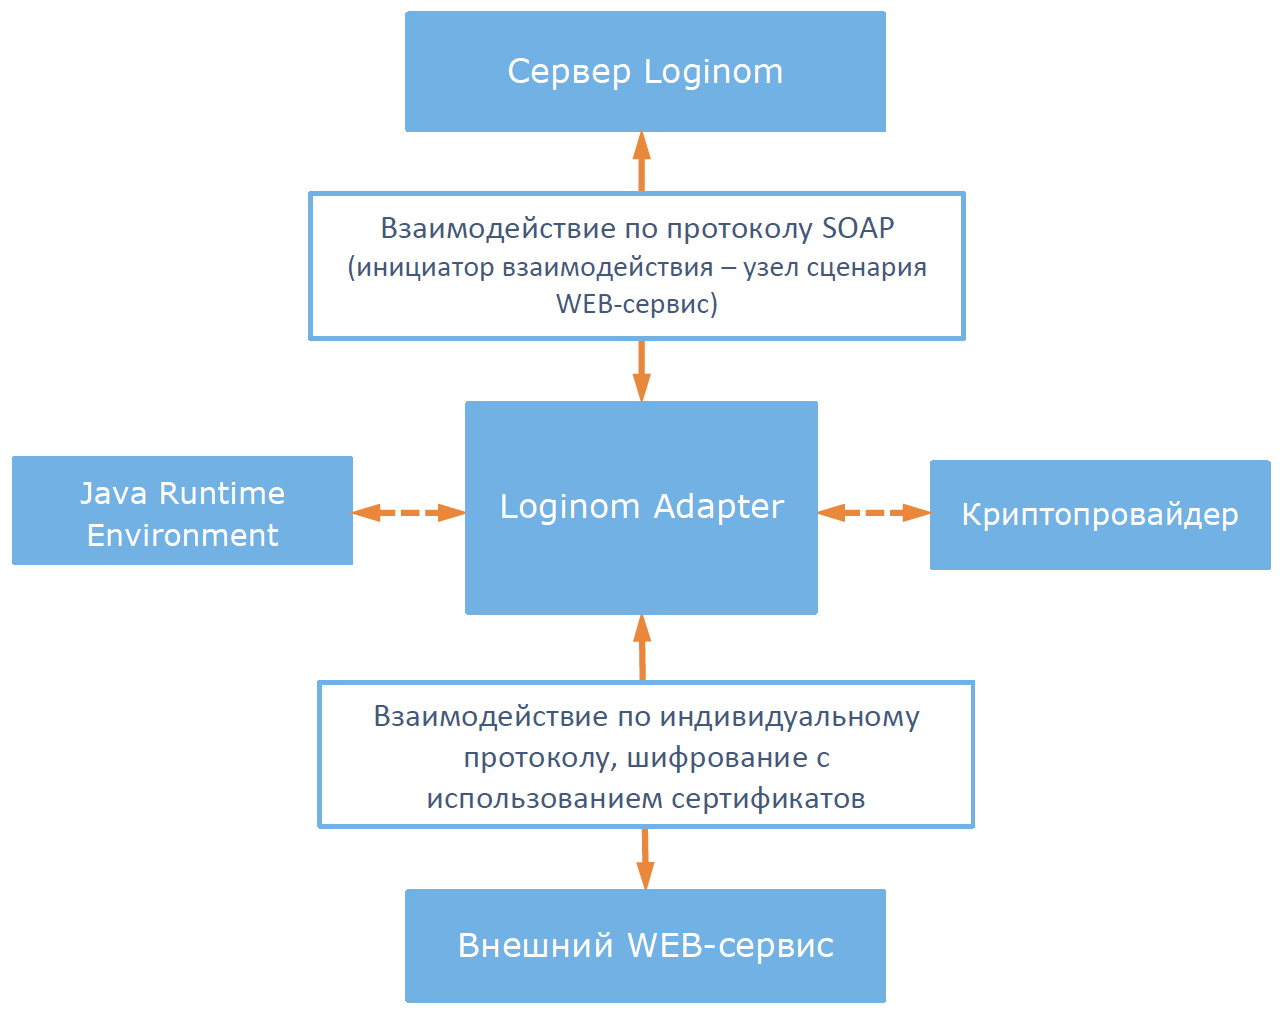
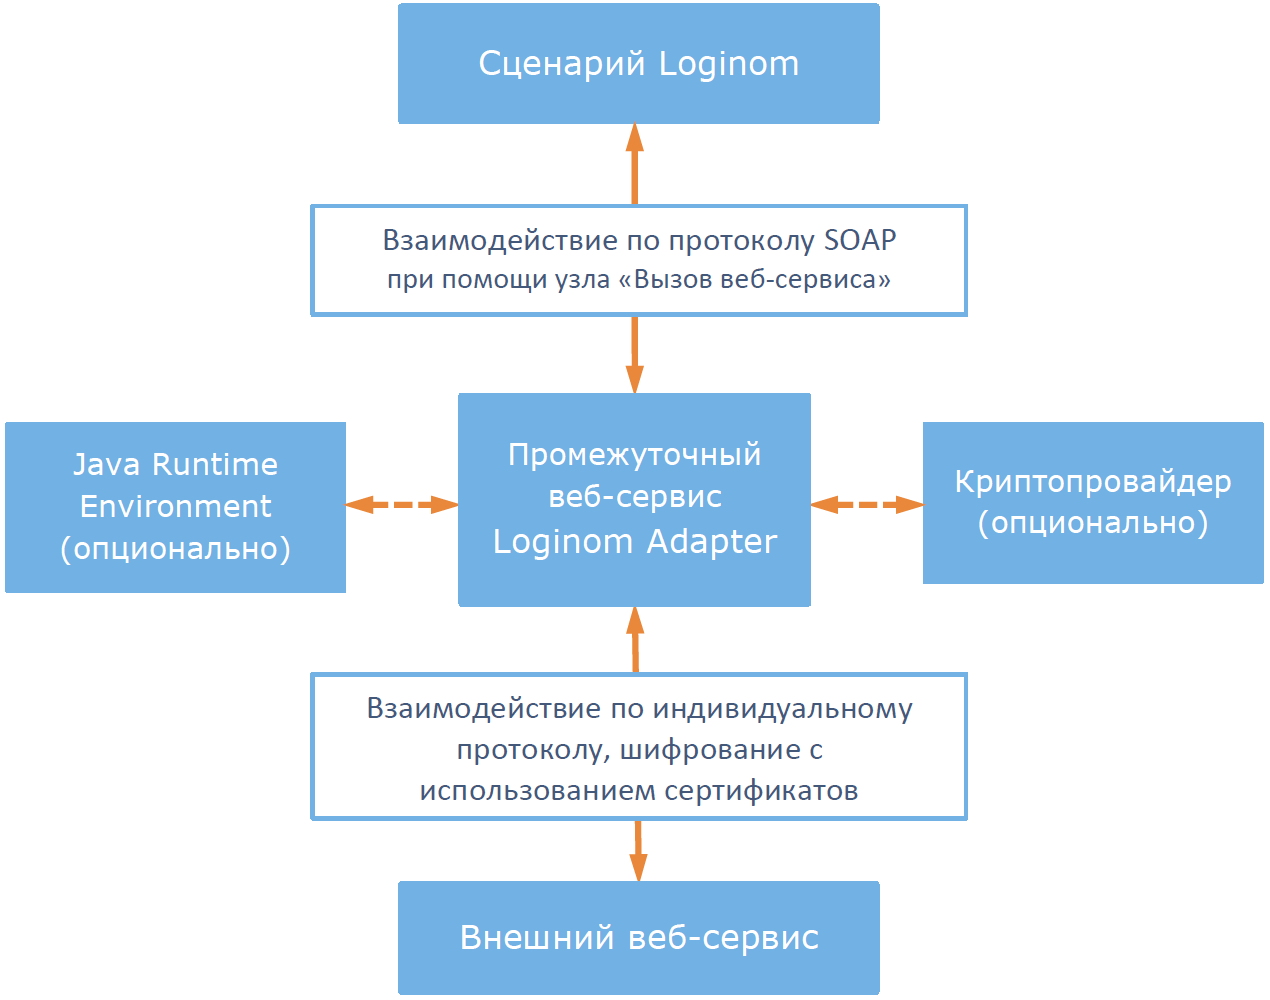
Добавлены ссылки на loginom-help

diff --git a/adapter/README.md b/adapter/README.md
@@ -1,8 +1,8 @@
 # Loginom Adapter
 
-В аналитической платформе Loginom реализованы обращения к веб-сервисам c использованием протоколов SOAP и REST (см. [подключение веб-сервиса](https://help.loginom.ru/userguide/integration/connections/list/web-service.html)). Стандартные средства Loginom покрывают значительную часть всего разнообразия вариантов взаимодействия с веб-сервисами, но некоторые веб-сервисы могут использовать собственные протоколы и шифрование сообщений, при которых подключиться к ним стандартными средствами не возможно. Для решения этой задачи предназначен Loginom Adapter (далее, *адаптер*).
+В аналитической платформе Loginom [реализованы обращения к веб-сервисам](https://help.loginom.ru/userguide/integration/web-services/) c использованием протоколов SOAP и REST. Стандартные средства Loginom покрывают значительную часть всего разнообразия вариантов взаимодействия с веб-сервисами, но некоторые веб-сервисы могут использовать собственные протоколы и шифрование сообщений, при которых подключиться к ним стандартными средствами не возможно. Для решения этой задачи предназначен Loginom Adapter (далее, *адаптер*).
 
-*Адаптер* представляет собой промежуточный веб-сервис между реализованным в Loginom сценарием и внешними веб-сервисами. Взаимодействие с *Адаптером* из сценария Loginom происходит по SOAP протоколу при помощи узла *Вызов веб-сервиса*.
+*Адаптер* представляет собой промежуточный веб-сервис между реализованным в Loginom сценарием и внешними веб-сервисами. Взаимодействие с *Адаптером* из сценария Loginom происходит по SOAP протоколу при помощи узла [Вызов веб-сервиса](https://help.loginom.ru/userguide/processors/integration/calling-web-service.html).
 
 *Адаптер*:
 - преобразует полученный из сценария Loginom SOAP-запрос к формату запроса внешнего веб-сервиса;
